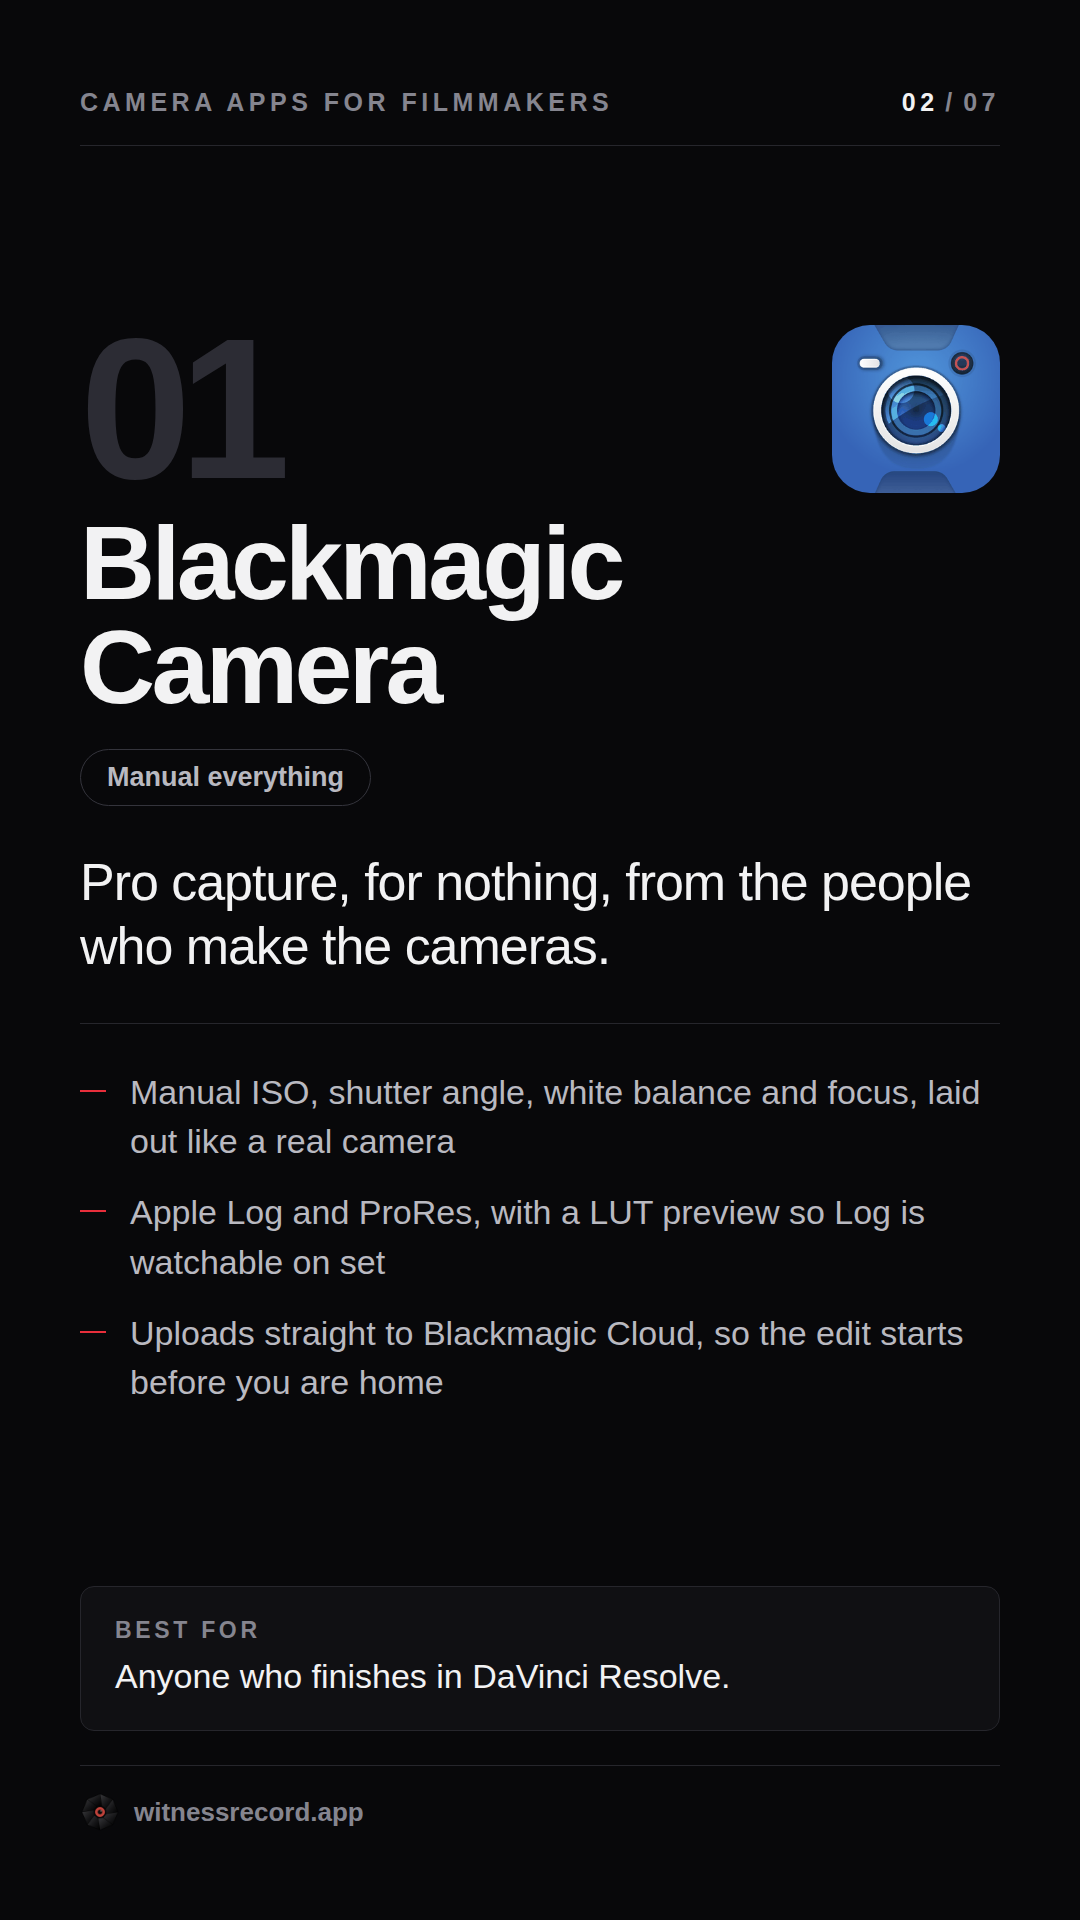
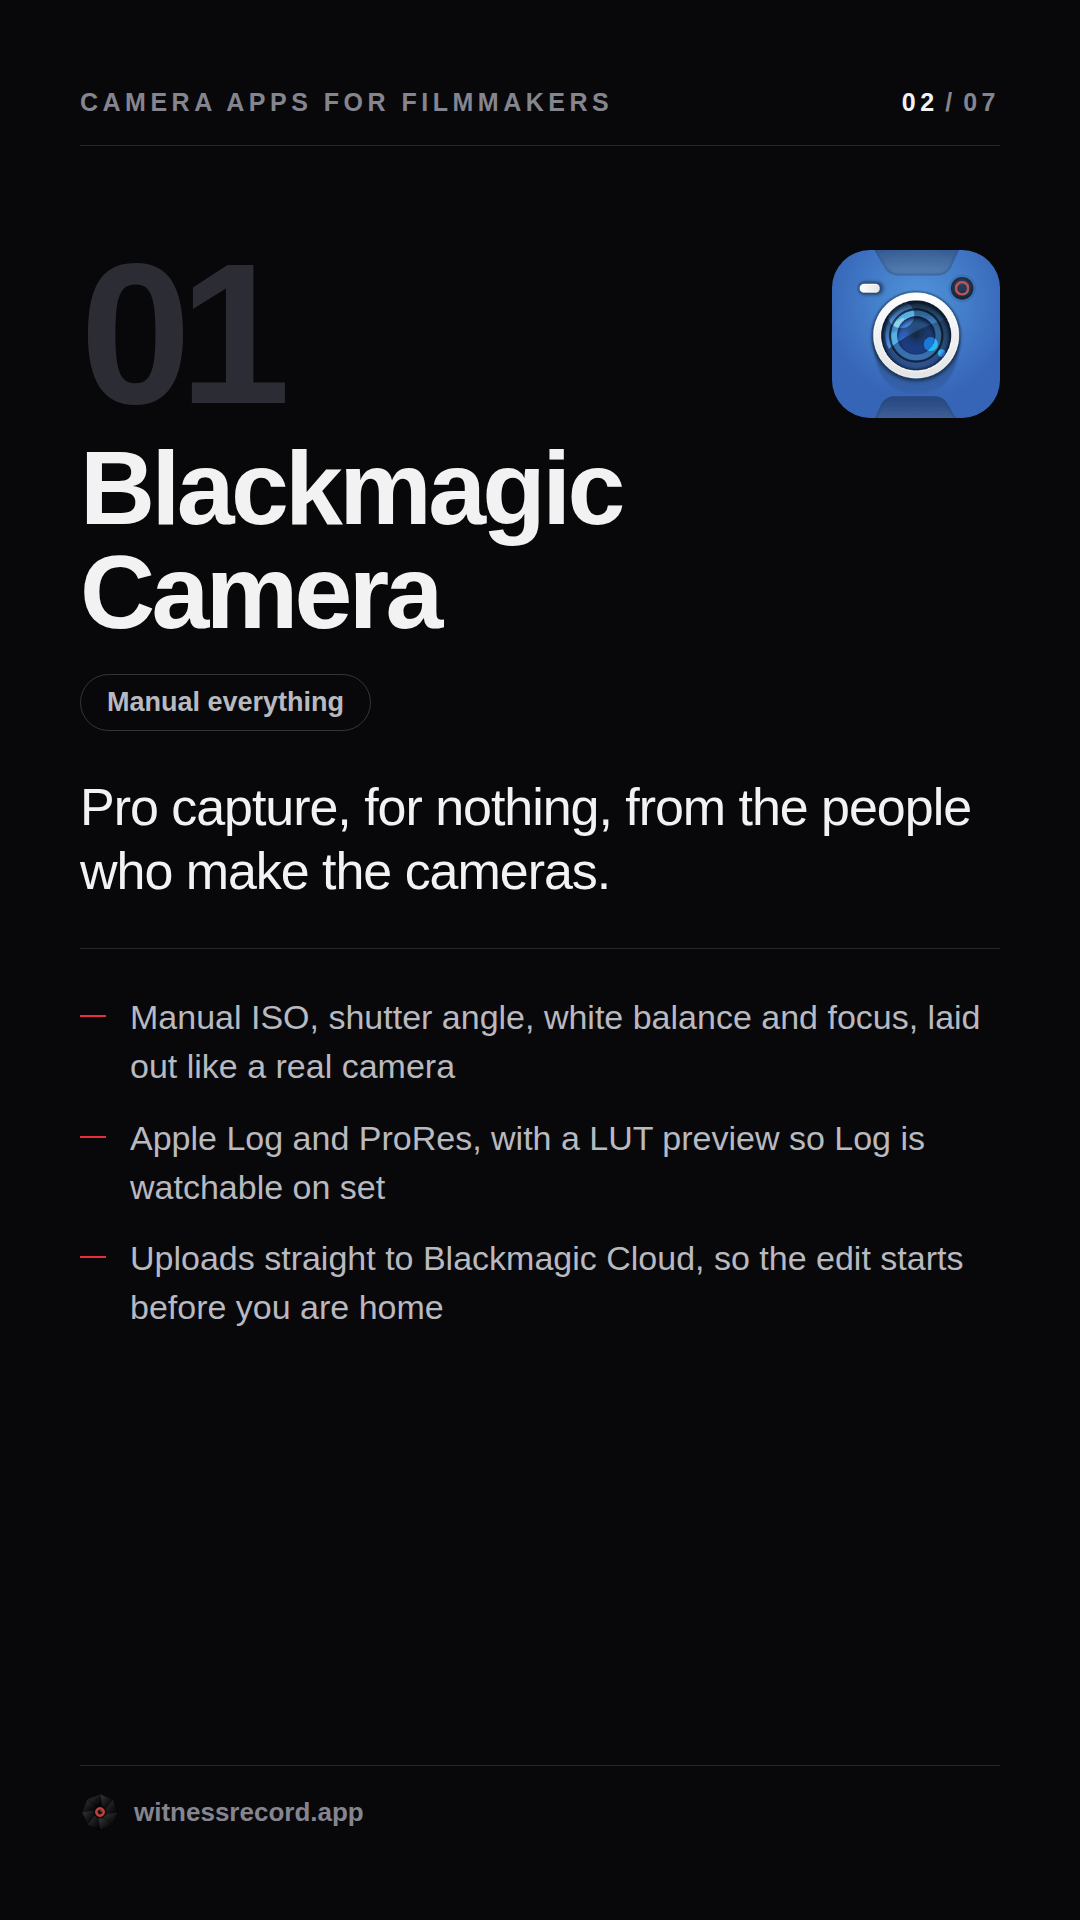
Take the bottom card off every slide
The "Best for" band goes from the five app slides and the closing
question from the last one.

That left each slide's content centred at a different height, which
made the numeral and the icon jump around on swipe, so the app slides
are now anchored to a fixed top position instead.

Claude-Session: https://claude.ai/code/session_01Akq5Wku8xeo6qiCmub5pxH

diff --git a/social/tiktok-camera-apps/Witness.dc.html b/social/tiktok-camera-apps/Witness.dc.html
@@ -18,7 +18,7 @@
   <div style="font-size: 25px; font-weight: 600; letter-spacing: 0.18em; color: #85858f;"><span style="color: #f2f2f3;">03</span>&#8202;/&#8202;07</div>
 </div>
 <div style="height: 1px; background: #26262c; margin: 28px 0 0;"></div>
-<div style="flex: 1; display: flex; flex-direction: column; justify-content: center; gap: 0;">
+<div style="flex: 1; display: flex; flex-direction: column; justify-content: flex-start; padding-top: 104px; gap: 0;">
   <div style="display: flex; align-items: center; justify-content: space-between; gap: 32px;">
     <div style="font-size: 200px; font-weight: 700; letter-spacing: -0.06em; line-height: 0.82; color: #e82e3b;">02</div>
     <img src="witness-icon.png" alt="" style="width: 168px; height: 168px; border-radius: 38px; display: block; flex: none;">
@@ -50,10 +50,6 @@
   <div style="display: flex; gap: 20px; align-items: flex-start; margin-top: 40px; border-left: 2px solid #e82e3b; padding-left: 26px;">
     <div style="font-size: 30px; line-height: 1.4; color: #85858f;">Full disclosure: I built this one. The other four are not mine, and they are genuinely good.</div>
   </div>
-</div>
-<div style="background: #101013; border: 1px solid #26262c; border-radius: 14px; padding: 30px 34px; margin-bottom: 34px;">
-  <div style="font-size: 23px; font-weight: 600; letter-spacing: 0.16em; text-transform: uppercase; color: #85858f; margin-bottom: 10px;">Best for</div>
-  <div style="font-size: 34px; line-height: 1.35; color: #f2f2f3;">Documentary, protest and field work &#8212; anywhere the phone might not make it back.</div>
 </div>
 <div style="height: 1px; background: #26262c; margin: 0 0 26px;"></div>
 <div style="display: flex; align-items: center; justify-content: space-between; gap: 24px;">

diff --git a/social/tiktok-camera-apps/FinalCutCamera.dc.html b/social/tiktok-camera-apps/FinalCutCamera.dc.html
@@ -18,7 +18,7 @@
   <div style="font-size: 25px; font-weight: 600; letter-spacing: 0.18em; color: #85858f;"><span style="color: #f2f2f3;">06</span>&#8202;/&#8202;07</div>
 </div>
 <div style="height: 1px; background: #26262c; margin: 28px 0 0;"></div>
-<div style="flex: 1; display: flex; flex-direction: column; justify-content: center; gap: 0;">
+<div style="flex: 1; display: flex; flex-direction: column; justify-content: flex-start; padding-top: 104px; gap: 0;">
   <div style="display: flex; align-items: center; justify-content: space-between; gap: 32px;">
     <div style="font-size: 200px; font-weight: 700; letter-spacing: -0.06em; line-height: 0.82; color: #2c2c34;">05</div>
     <img src="icon-finalcutcamera.png" alt="" style="width: 168px; height: 168px; border-radius: 38px; display: block; flex: none;">
@@ -43,10 +43,6 @@
     <div style="font-size: 34px; line-height: 1.45; color: #b9b9c0;">Apple&nbsp;Log in HEVC or ProRes on supported models</div>
   </div>
   </div>
-</div>
-<div style="background: #101013; border: 1px solid #26262c; border-radius: 14px; padding: 30px 34px; margin-bottom: 34px;">
-  <div style="font-size: 23px; font-weight: 600; letter-spacing: 0.16em; text-transform: uppercase; color: #85858f; margin-bottom: 10px;">Best for</div>
-  <div style="font-size: 34px; line-height: 1.35; color: #f2f2f3;">Interviews and two&#8209; or three&#8209;camera setups on no budget.</div>
 </div>
 <div style="height: 1px; background: #26262c; margin: 0 0 26px;"></div>
 <div style="display: flex; align-items: center; justify-content: space-between; gap: 24px;">

diff --git a/social/tiktok-camera-apps/FilmicPro.dc.html b/social/tiktok-camera-apps/FilmicPro.dc.html
@@ -18,7 +18,7 @@
   <div style="font-size: 25px; font-weight: 600; letter-spacing: 0.18em; color: #85858f;"><span style="color: #f2f2f3;">05</span>&#8202;/&#8202;07</div>
 </div>
 <div style="height: 1px; background: #26262c; margin: 28px 0 0;"></div>
-<div style="flex: 1; display: flex; flex-direction: column; justify-content: center; gap: 0;">
+<div style="flex: 1; display: flex; flex-direction: column; justify-content: flex-start; padding-top: 104px; gap: 0;">
   <div style="display: flex; align-items: center; justify-content: space-between; gap: 32px;">
     <div style="font-size: 200px; font-weight: 700; letter-spacing: -0.06em; line-height: 0.82; color: #2c2c34;">04</div>
     <img src="icon-filmicpro.png" alt="" style="width: 168px; height: 168px; border-radius: 38px; display: block; flex: none;">
@@ -43,10 +43,6 @@
     <div style="font-size: 34px; line-height: 1.45; color: #b9b9c0;">The lifetime licence became a subscription &#8212; check before you commit</div>
   </div>
   </div>
-</div>
-<div style="background: #101013; border: 1px solid #26262c; border-radius: 14px; padding: 30px 34px; margin-bottom: 34px;">
-  <div style="font-size: 23px; font-weight: 600; letter-spacing: 0.16em; text-transform: uppercase; color: #85858f; margin-bottom: 10px;">Best for</div>
-  <div style="font-size: 34px; line-height: 1.35; color: #f2f2f3;">Controlled shoots where you want every dial.</div>
 </div>
 <div style="height: 1px; background: #26262c; margin: 0 0 26px;"></div>
 <div style="display: flex; align-items: center; justify-content: space-between; gap: 24px;">

diff --git a/social/tiktok-camera-apps/Blackmagic.dc.html b/social/tiktok-camera-apps/Blackmagic.dc.html
@@ -18,7 +18,7 @@
   <div style="font-size: 25px; font-weight: 600; letter-spacing: 0.18em; color: #85858f;"><span style="color: #f2f2f3;">02</span>&#8202;/&#8202;07</div>
 </div>
 <div style="height: 1px; background: #26262c; margin: 28px 0 0;"></div>
-<div style="flex: 1; display: flex; flex-direction: column; justify-content: center; gap: 0;">
+<div style="flex: 1; display: flex; flex-direction: column; justify-content: flex-start; padding-top: 104px; gap: 0;">
   <div style="display: flex; align-items: center; justify-content: space-between; gap: 32px;">
     <div style="font-size: 200px; font-weight: 700; letter-spacing: -0.06em; line-height: 0.82; color: #2c2c34;">01</div>
     <img src="icon-blackmagic.png" alt="" style="width: 168px; height: 168px; border-radius: 38px; display: block; flex: none;">
@@ -43,10 +43,6 @@
     <div style="font-size: 34px; line-height: 1.45; color: #b9b9c0;">Uploads straight to Blackmagic Cloud, so the edit starts before you are home</div>
   </div>
   </div>
-</div>
-<div style="background: #101013; border: 1px solid #26262c; border-radius: 14px; padding: 30px 34px; margin-bottom: 34px;">
-  <div style="font-size: 23px; font-weight: 600; letter-spacing: 0.16em; text-transform: uppercase; color: #85858f; margin-bottom: 10px;">Best for</div>
-  <div style="font-size: 34px; line-height: 1.35; color: #f2f2f3;">Anyone who finishes in DaVinci Resolve.</div>
 </div>
 <div style="height: 1px; background: #26262c; margin: 0 0 26px;"></div>
 <div style="display: flex; align-items: center; justify-content: space-between; gap: 24px;">

diff --git a/social/tiktok-camera-apps/Kino.dc.html b/social/tiktok-camera-apps/Kino.dc.html
@@ -18,7 +18,7 @@
   <div style="font-size: 25px; font-weight: 600; letter-spacing: 0.18em; color: #85858f;"><span style="color: #f2f2f3;">04</span>&#8202;/&#8202;07</div>
 </div>
 <div style="height: 1px; background: #26262c; margin: 28px 0 0;"></div>
-<div style="flex: 1; display: flex; flex-direction: column; justify-content: center; gap: 0;">
+<div style="flex: 1; display: flex; flex-direction: column; justify-content: flex-start; padding-top: 104px; gap: 0;">
   <div style="display: flex; align-items: center; justify-content: space-between; gap: 32px;">
     <div style="font-size: 200px; font-weight: 700; letter-spacing: -0.06em; line-height: 0.82; color: #2c2c34;">03</div>
     <img src="icon-kino.png" alt="" style="width: 168px; height: 168px; border-radius: 38px; display: block; flex: none;">
@@ -43,10 +43,6 @@
     <div style="font-size: 34px; line-height: 1.45; color: #b9b9c0;">One&#8209;hand controls that are not fighting you at minute forty</div>
   </div>
   </div>
-</div>
-<div style="background: #101013; border: 1px solid #26262c; border-radius: 14px; padding: 30px 34px; margin-bottom: 34px;">
-  <div style="font-size: 23px; font-weight: 600; letter-spacing: 0.16em; text-transform: uppercase; color: #85858f; margin-bottom: 10px;">Best for</div>
-  <div style="font-size: 34px; line-height: 1.35; color: #f2f2f3;">Shooting fast, alone, with no colourist waiting.</div>
 </div>
 <div style="height: 1px; background: #26262c; margin: 0 0 26px;"></div>
 <div style="display: flex; align-items: center; justify-content: space-between; gap: 24px;">

diff --git a/social/tiktok-camera-apps/Outro.dc.html b/social/tiktok-camera-apps/Outro.dc.html
@@ -50,9 +50,6 @@
     </div>
   </div>
 </div>
-<div style="background: #101013; border: 1px solid #26262c; border-radius: 14px; padding: 30px 34px; margin-bottom: 34px;">
-  <div style="font-size: 32px; line-height: 1.4; color: #f2f2f3;">Which one is on your home screen?</div>
-</div>
 <div style="height: 1px; background: #26262c; margin: 0 0 26px;"></div>
 <div style="display: flex; align-items: center; justify-content: space-between; gap: 24px;">
   <div style="display: flex; align-items: center; gap: 14px;">

diff --git a/social/tiktok-camera-apps/build-slides.py b/social/tiktok-camera-apps/build-slides.py
@@ -127,11 +127,14 @@ def icon(stem, initials):
     )
 
 
-def app_slide(n, rank, name, pills, hook, specs, best_for, stem, initials, disclosure=None):
+def app_slide(n, rank, name, pills, hook, specs, stem, initials, disclosure=None):
     rank_color = RED if disclosure else GHOST
     parts = []
     parts.append(kicker(n))
-    parts.append('<div style="flex: 1; display: flex; flex-direction: column; justify-content: center; gap: 0;">')
+    # Top-anchored, not centred: with the bottom band gone, centring would park
+    # each slide's numeral at a different height and make the set jump on swipe.
+    parts.append('<div style="flex: 1; display: flex; flex-direction: column; '
+                 'justify-content: flex-start; padding-top: 104px; gap: 0;">')
     parts.append(
         '  <div style="display: flex; align-items: center; justify-content: space-between; gap: 32px;">\n'
         '    <div style="font-size: 200px; font-weight: 700; letter-spacing: -0.06em; '
@@ -162,14 +165,6 @@ def app_slide(n, rank, name, pills, hook, specs, best_for, stem, initials, discl
             '  </div>' % (RED, TEXT_3, disclosure)
         )
     parts.append('</div>')
-    parts.append(
-        '<div style="background: %s; border: 1px solid %s; border-radius: 14px; '
-        'padding: 30px 34px; margin-bottom: 34px;">\n'
-        '  <div style="font-size: 23px; font-weight: 600; letter-spacing: 0.16em; '
-        'text-transform: uppercase; color: %s; margin-bottom: 10px;">Best for</div>\n'
-        '  <div style="font-size: 34px; line-height: 1.35; color: %s;">%s</div>\n'
-        '</div>' % (RAISED, LINE, TEXT_3, TEXT, best_for)
-    )
     parts.append(footer())
     return SHELL.format(font=FONT, red_s=RED_S, body=frame('\n'.join(parts)))
 
@@ -208,7 +203,6 @@ slide2 = app_slide(
         'Apple&nbsp;Log and ProRes, with a LUT preview so Log is watchable on set',
         'Uploads straight to Blackmagic Cloud, so the edit starts before you are home',
     ],
-    'Anyone who finishes in DaVinci Resolve.',
     stem='Blackmagic', initials='BM',
 )
 
@@ -222,7 +216,6 @@ slide3 = app_slide(
         'Each piece is hashed and timestamped, so the footage holds up when it is challenged',
         'Pro adds 4K, Apple&nbsp;Log and ProRes&nbsp;422 &#8212; ProRes stays on the phone, too big to upload live',
     ],
-    'Documentary, protest and field work &#8212; anywhere the phone might not make it back.',
     stem='Witness', initials='W',
     disclosure='Full disclosure: I built this one. The other four are not mine, and they are genuinely good.',
 )
@@ -236,7 +229,6 @@ slide4 = app_slide(
         'AutoMotion holds a cinematic 180&#176; shutter while the light moves',
         'One&#8209;hand controls that are not fighting you at minute forty',
     ],
-    'Shooting fast, alone, with no colourist waiting.',
     stem='Kino', initials='K',
 )
 
@@ -249,7 +241,6 @@ slide5 = app_slide(
         'LogV3 capture and manual control over every parameter you can name',
         'The lifetime licence became a subscription &#8212; check before you commit',
     ],
-    'Controlled shoots where you want every dial.',
     stem='FilmicPro', initials='FP',
 )
 
@@ -262,7 +253,6 @@ slide6 = app_slide(
         'Each phone still records locally at full quality &#8212; the link is only the monitor',
         'Apple&nbsp;Log in HEVC or ProRes on supported models',
     ],
-    'Interviews and two&#8209; or three&#8209;camera setups on no budget.',
     stem='FinalCutCamera', initials='FC',
 )
 
@@ -301,11 +291,6 @@ outro_body = '\n'.join([
     'Chunked upload, hashing and timestamping, all in the app.</div>' % TEXT_3,
     '    </div>',
     '  </div>',
-    '</div>',
-    '<div style="background: %s; border: 1px solid %s; border-radius: 14px; '
-    'padding: 30px 34px; margin-bottom: 34px;">' % (RAISED, LINE),
-    '  <div style="font-size: 32px; line-height: 1.4; color: %s;">'
-    'Which one is on your home screen?</div>' % TEXT,
     '</div>',
     footer(),
 ])
